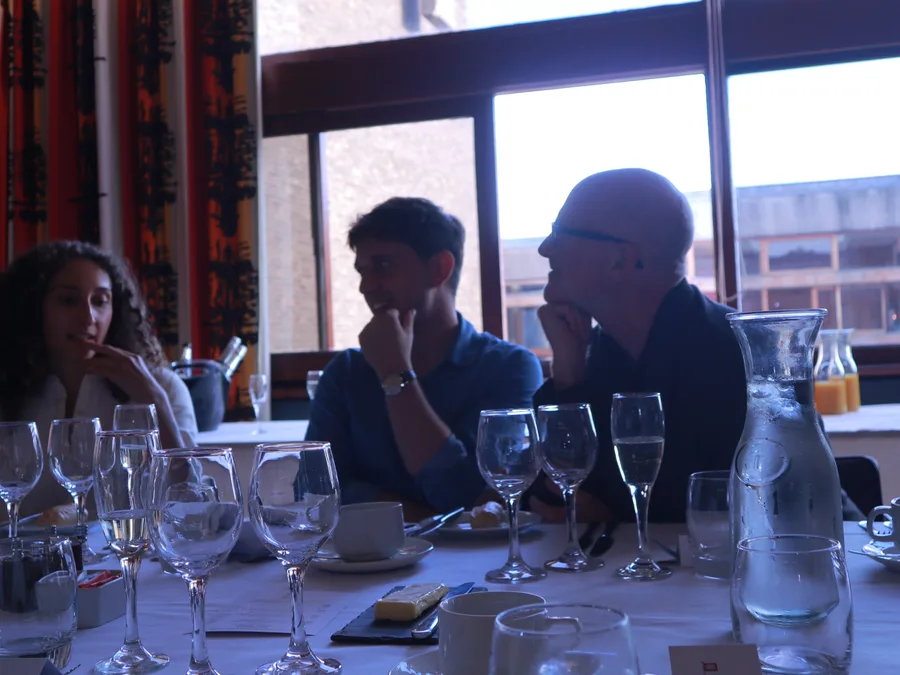
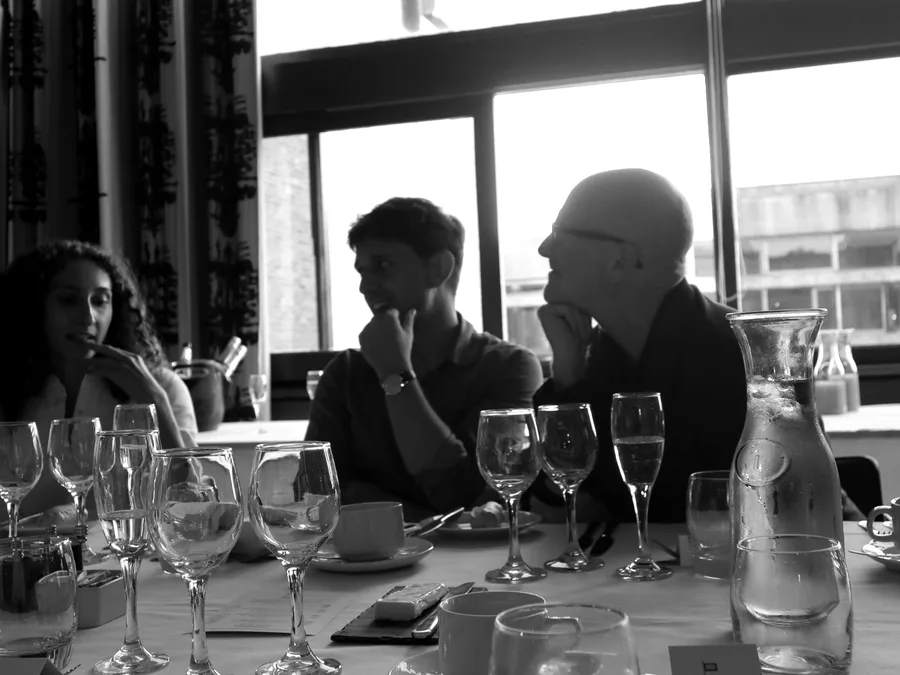
Nuclear page: tighter layout, jump links, cards, black-and-white imagery
- Group photo becomes a 300px banner (200px on phones) instead of a
  full-height image.
- A row of jump links (About, Research focus, Working groups, Research,
  Lately, People) sits under the heading; sections carry matching ids.
- About opens with its first sentence as a lede.
- The three research focus areas are side-by-side cards; the five Fall
  2026 working groups are tiles in a two-column grid.
- All photos on the page are black and white: new greyscale copies of the
  Peters, Cullison and Park headshots in images/people/, and greyscale
  gallery thumbnails (the dinner photo brightened). Pop-ups still show
  the colour originals.
- The two gallery items without a usable photo (The Intercept, Sandia)
  get designed typographic tiles instead of a headshot and a blank tile.
- CSS cache version bumped on every page.

Claude-Session: https://claude.ai/code/session_01RevRCVzg76PT6JeMzYbngU

diff --git a/risk-nuclear.html b/risk-nuclear.html
@@ -6,9 +6,9 @@
 <title>Nuclear — XLab Risk Areas</title>
 <meta name="description" content="XLab's nuclear risk research program: right-of-boom resilience, risk reduction alternatives, and updating the field's foundational inputs.">
 <link href="https://uchicago-brand-fonts.s3.us-east-2.amazonaws.com/UChicagoSansSerif.css" rel="stylesheet">
-<script src="js/image-slot.js?v=20261007a"></script>
-<link rel="stylesheet" href="css/site.css?v=20261007a">
-<script src="js/site.js?v=20261007a" defer></script>
+<script src="js/image-slot.js?v=20261007b"></script>
+<link rel="stylesheet" href="css/site.css?v=20261007b">
+<script src="js/site.js?v=20261007b" defer></script>
 <style>
   body { margin: 0; background: #ffffff; font-family: 'UChicago Sans Serif', Helvetica, Arial, sans-serif; color: #000000; }
   a { color: #800000; text-decoration: none; }
@@ -86,42 +86,39 @@
         <h1 style="font-family:'UChicago Sans Serif',Helvetica,Arial,sans-serif;font-weight:700;letter-spacing:0.08em;text-transform:uppercase;font-size:clamp(36px,5vw,56px);line-height:1.05;margin:0;color:#000000;">Nuclear</h1>
       </div>
     </div>
-    <img src="images/nuclear/nuclear-group-summer-2026.webp" alt="XLab's nuclear risk research group, summer 2026" style="width:100%;height:auto;display:block;margin:40px 0 0;">
+    <img src="images/nuclear/nuclear-group-summer-2026.webp" alt="XLab's nuclear risk research group, summer 2026" class="nuke-hero" style="width:100%;height:300px;object-fit:cover;object-position:center 35%;display:block;margin:36px 0 0;">
   </section>
-  <section style="padding:48px 48px 80px;max-width:820px;margin:0 auto;">
-    <h2 style="font-size:22px;font-weight:700;text-transform:uppercase;letter-spacing:0.12em;margin:0 0 18px;color:#000000;">About</h2>
-    <p style="font-size:16px;line-height:1.75;color:#4D4D4D;margin:0 0 24px;">XLab’s nuclear risk research program is motivated by the conceptual gap between the canonical nuclear policy field and the resilience and post-detonation sub-field. While these areas are often treated as separate and distinct entities, XLab’s program treats these research areas as interdependent, cultivating a robust university community focused on producing actionable policy-relevant research that fills in critical knowledge gaps in our understanding of nuclear preparedness, nuclear winter, and the post-nuclear first strike deterrence environment. Our program functions as a complement to the prevention-based risk reduction frameworks that dominate the field, providing possible solutions to mitigating nuclear risk when preventative frameworks face increased opposition and roadblocks in a tri-polar security environment. XLab’s nuclear risk research focuses on three key areas.</p>
+  <section style="padding:28px 48px 80px;max-width:1180px;margin:0 auto;">
+    <nav class="page-nav" aria-label="On this page">
+      <a href="#about">About</a><a href="#focus">Research focus</a><a href="#groups">Working groups</a><a href="#research">Research</a><a href="#lately">Lately</a><a href="#people">People</a>
+    </nav>
+    <div class="prose">
+    <h2 id="about" style="font-size:22px;font-weight:700;text-transform:uppercase;letter-spacing:0.12em;margin:28px 0 18px;color:#000000;">About</h2>
+    <p class="lede">XLab’s nuclear risk research program is motivated by the conceptual gap between the canonical nuclear policy field and the resilience and post-detonation sub-field.</p>
+    <p style="font-size:16px;line-height:1.75;color:#4D4D4D;margin:0 0 24px;">While these areas are often treated as separate and distinct entities, XLab’s program treats these research areas as interdependent, cultivating a robust university community focused on producing actionable policy-relevant research that fills in critical knowledge gaps in our understanding of nuclear preparedness, nuclear winter, and the post-nuclear first strike deterrence environment. Our program functions as a complement to the prevention-based risk reduction frameworks that dominate the field, providing possible solutions to mitigating nuclear risk when preventative frameworks face increased opposition and roadblocks in a tri-polar security environment. XLab’s nuclear risk research focuses on three key areas.</p>
     <a href="nuclear-top-ten.html" class="nuke-cta">Learn more about the current state of nuclear risk →</a>
 
-    <h2 style="font-size:22px;font-weight:700;text-transform:uppercase;letter-spacing:0.12em;margin:48px 0 18px;color:#000000;">Our Research Focus</h2>
-    <div style="display:flex;flex-direction:column;gap:28px;margin-bottom:8px;">
-      <div>
-        <h3 style="font-size:16.5px;font-weight:700;margin:0 0 8px;color:#800000;">Right-of-Boom and Resilience</h3>
-        <p style="font-size:16px;line-height:1.75;color:#4D4D4D;margin:0;">This research area seeks to broaden the definition of what constitutes risk reduction and what may happen if prevention one day fails. While civil defense and other post-detonation interventions were seen as morally suspect and fatalistic during the Cold War, we argue this area of inquiry should be reframed as risk management for a new nuclear era. The refusal to understand and prepare for possible failure modes increases the probability and severity of a failure event itself. This includes nuclear winter research, institutional resilience, and more broadly, what a post first-strike world looks like.</p>
-      </div>
-      <div>
-        <h3 style="font-size:16.5px;font-weight:700;margin:0 0 8px;color:#800000;">Risk Reduction Alternatives</h3>
-        <p style="font-size:16px;line-height:1.75;color:#4D4D4D;margin:0;">Much of the risk fatigue and funding decreases in the nuclear risk field may be attributed to no return on investment, as despite research, policy initiatives, and calls for reducing nuclear risk, the risk is evolving and continues to rise. Much of the field focuses on prevention but applies Cold War-era approaches for risk reduction to a modern security climate that looks very different, particularly concerning tri-polar competition. We are motivated to understand where current approaches fall flat in modern conditions, and develop alternatives that can work despite a more hostile security environment. This includes revisiting Cold War-era strategies like minimum viable deterrence, and testing them on modern geopolitical conditions.</p>
-      </div>
-      <div>
-        <h3 style="font-size:16.5px;font-weight:700;margin:0 0 8px;color:#800000;">Updating the Field’s Foundational Inputs</h3>
-        <p style="font-size:16px;line-height:1.75;color:#4D4D4D;margin:0;">The security environment has evolved drastically since the Cold War, yet the nuclear field often treats today’s landscape as the same. The nuclear field often confuses the ‘politically irrelevant’ with the ‘scientifically resolved.’ When certain questions fall out of political relevance, the field often stops investigating them; it includes public risk narratives, decision-making, and military planning; hard sciences (e.g., effects of nuclear war and nuclear winter). This research area re-interrogates those inputs under modern conditions to identify where real uncertainty lies and where future work is most needed. Our 2026 report on assumptions and uncertainties in nuclear winter modeling, for example, audits the choices embedded at each stage of the nuclear winter mechanism chain, from fuel loading and firestorm behavior, to soot injection and global circulation. It also shows which of them carry the most weight in the field’s estimates. We also build open-source, interactive tools that make these inputs visible and testable.</p>
-      </div>
     </div>
-
-    <h2 style="font-size:22px;font-weight:700;text-transform:uppercase;letter-spacing:0.12em;margin:48px 0 18px;color:#000000;">Research and Working Groups</h2>
+    <h2 id="focus" style="font-size:22px;font-weight:700;text-transform:uppercase;letter-spacing:0.12em;margin:48px 0 18px;color:#000000;">Our Research Focus</h2>
+    <div class="focus-grid">
+      <div class="focus-card"><h3>Right-of-Boom and Resilience</h3><p>This research area seeks to broaden the definition of what constitutes risk reduction and what may happen if prevention one day fails. While civil defense and other post-detonation interventions were seen as morally suspect and fatalistic during the Cold War, we argue this area of inquiry should be reframed as risk management for a new nuclear era. The refusal to understand and prepare for possible failure modes increases the probability and severity of a failure event itself. This includes nuclear winter research, institutional resilience, and more broadly, what a post first-strike world looks like.</p></div>
+      <div class="focus-card"><h3>Risk Reduction Alternatives</h3><p>Much of the risk fatigue and funding decreases in the nuclear risk field may be attributed to no return on investment, as despite research, policy initiatives, and calls for reducing nuclear risk, the risk is evolving and continues to rise. Much of the field focuses on prevention but applies Cold War-era approaches for risk reduction to a modern security climate that looks very different, particularly concerning tri-polar competition. We are motivated to understand where current approaches fall flat in modern conditions, and develop alternatives that can work despite a more hostile security environment. This includes revisiting Cold War-era strategies like minimum viable deterrence, and testing them on modern geopolitical conditions.</p></div>
+      <div class="focus-card"><h3>Updating the Field’s Foundational Inputs</h3><p>The security environment has evolved drastically since the Cold War, yet the nuclear field often treats today’s landscape as the same. The nuclear field often confuses the ‘politically irrelevant’ with the ‘scientifically resolved.’ When certain questions fall out of political relevance, the field often stops investigating them; it includes public risk narratives, decision-making, and military planning; hard sciences (e.g., effects of nuclear war and nuclear winter). This research area re-interrogates those inputs under modern conditions to identify where real uncertainty lies and where future work is most needed. Our 2026 report on assumptions and uncertainties in nuclear winter modeling, for example, audits the choices embedded at each stage of the nuclear winter mechanism chain, from fuel loading and firestorm behavior, to soot injection and global circulation. It also shows which of them carry the most weight in the field’s estimates. We also build open-source, interactive tools that make these inputs visible and testable.</p></div>
+    </div>
+    <div class="prose">
+    <h2 id="groups" style="font-size:22px;font-weight:700;text-transform:uppercase;letter-spacing:0.12em;margin:48px 0 18px;color:#000000;">Research and Working Groups</h2>
     <p style="font-size:16px;line-height:1.75;color:#4D4D4D;margin:0 0 24px;">XLab’s research working group program allows students to pursue impactful research over quarter-long project cycles advised by XLab staff. We provide otherwise rare opportunities for students to engage with topics in nuclear risk, familiarize themselves with the research process, and develop critical analysis skills over the course of the project. Each working group produces a journal article-length deliverable. Most research groups run on a quarterly basis, while others are longer-term initiatives. Below are our current research groups for Fall 2026:</p>
-    <ul class="wg-list">
-      <li>Post-Detonation Strategy and Deterrence</li>
-      <li>A Framework for Minimum Viable Deterrence</li>
-      <li>Agriculture and Nuclear Winter</li>
-      <li>Nuclear and Converging Risks Threat Modeling</li>
-      <li>Cooperative Trade Policy Under Nuclear Winter</li>
-    </ul>
+    <div class="wg-grid">
+      <div class="wg-tile"><span class="wg-term">Fall 2026</span>Post-Detonation Strategy and Deterrence</div>
+      <div class="wg-tile"><span class="wg-term">Fall 2026</span>A Framework for Minimum Viable Deterrence</div>
+      <div class="wg-tile"><span class="wg-term">Fall 2026</span>Agriculture and Nuclear Winter</div>
+      <div class="wg-tile"><span class="wg-term">Fall 2026</span>Nuclear and Converging Risks Threat Modeling</div>
+      <div class="wg-tile"><span class="wg-term">Fall 2026</span>Cooperative Trade Policy Under Nuclear Winter</div>
+    </div>
     <p style="font-size:15px;line-height:1.7;color:#4D4D4D;margin:0 0 28px;font-style:italic;">If you are interested in joining or leading a working group, please feel free to email <a href="mailto:mberzak@uchicago.edu">Madeline Berzak</a> or <a href="mailto:bennettcullison@uchicago.edu">Bennett Cullison</a> with your resume and core research interests.</p>
-    <img src="images/IMG_1847-1.jpeg" alt="A nuclear risk working group meeting at XLab" style="width:100%;height:340px;object-fit:cover;display:block;filter:grayscale(1) contrast(1.05);margin-bottom:8px;">
+    <img src="images/IMG_1847-1.jpeg" alt="A nuclear risk working group meeting at XLab" style="width:100%;height:300px;object-fit:cover;display:block;filter:grayscale(1) contrast(1.05);margin:8px 0 0;">
 
-    <h2 style="font-size:22px;font-weight:700;text-transform:uppercase;letter-spacing:0.12em;margin:48px 0 18px;color:#000000;">Research and Activities</h2>
+    <h2 id="research" style="font-size:22px;font-weight:700;text-transform:uppercase;letter-spacing:0.12em;margin:48px 0 18px;color:#000000;">Research and Activities</h2>
     <ul class="pub-list">
       <li>Madeline Berzak, Bennett Cullison, Nicolas Park, and Yohana Eshetu, <a href="https://doi.org/10.31223/X5BB7M" target="_blank" rel="noopener">“A Report on Assumptions and Uncertainties in Modeling Nuclear Winter”</a> EarthArXiv (pre-print), 2026.</li>
       <li>Madeline Berzak, Noah Peters, Noah Burdick, and Ada Meltzer, <a href="files/reports/XLab_Shovels_2026.pdf" target="_blank" rel="noopener">“With More Than Shovels: A Study on the Risk-Benefit Paradox of Nuclear Civil Defense”</a> XLab report, Summer 2026. Presented at CCCR 2026 at the University of Cambridge.</li>
@@ -130,10 +127,11 @@
       <li>Carl Parkin, <a href="files/2026/SRF26_FINAL_Parkin_Carl.pdf" target="_blank" rel="noopener">“Saddling the Tiger: Trends and Critical Mechanisms in Nuclear Weapons Acquisition”</a> Summer Research Fellowship, 2026.</li>
     </ul>
 
-    <h2 style="font-size:22px;font-weight:700;text-transform:uppercase;letter-spacing:0.12em;margin:48px 0 18px;color:#000000;">What We’ve Been Up to Lately</h2>
+    </div>
+    <h2 id="lately" style="font-size:22px;font-weight:700;text-transform:uppercase;letter-spacing:0.12em;margin:48px 0 18px;color:#000000;">What We’ve Been Up to Lately</h2>
     <div class="gal-grid">
       <button type="button" class="gal-card" data-modal="gal-park">
-        <span class="gal-media"><img src="images/fellows/2026-patrick-park.webp" alt="Patrick Park" loading="lazy"></span>
+        <span class="gal-media"><img src="images/people/patrick-park.webp" alt="Patrick Park" loading="lazy"></span>
         <span class="gal-title">Patrick Park wins APS Essay Contest</span>
       </button>
       <template id="gal-park"><div class="xl-modal-body"><img src="images/fellows/2026-patrick-park.webp" alt="Patrick Park"><h3>Patrick Park wins APS Essay Contest</h3><p>Patrick Park’s XLab summer research fellowship project, “Priority X: Physicists, Petroleum, Secrets in Making Graphite for Chicago Pile 1,” won the American Physical Society’s 2026 History of Physics Essay Contest. Park is currently a fifth-year PhD student at Princeton University studying mechanical engineering, and will present his essay at APS’s upcoming meeting.</p></div></template>
@@ -143,12 +141,12 @@
       </button>
       <template id="gal-cccr"><div class="xl-modal-body"><img src="images/nuclear/berzak-cambridge.webp" alt="Madeline Berzak speaking at the University of Cambridge"><h3>XLab at CCCR 2026</h3><p>XLab’s director of nuclear risk, Madeline Berzak, spoke on a panel focused on current issues in nuclear risk at the Cambridge Centre for the Study of Existential Risk’s (CSER) bi-annual CCCR conference. Berzak spoke alongside CSER director S.M. Amadae, James Acton, and Mette Eilstrup-Sangiovanni.</p><p><a href="https://www.cser.ac.uk/cccr-2026/" target="_blank" rel="noopener">About CCCR 2026 →</a></p></div></template>
       <button type="button" class="gal-card" data-modal="gal-intercept">
-        <span class="gal-media"><img src="images/people/madeline-berzak-2026.webp" alt="Madeline Berzak" loading="lazy"></span>
+        <span class="gal-media gal-type"><span class="gal-type-inner"><span class="gal-quote">“</span><span class="gal-type-text">How nuclear risk is communicated, and why no one paid attention.</span><span class="gal-type-src">The Intercept</span></span></span>
         <span class="gal-title">Madeline Berzak in The Intercept</span>
       </button>
       <template id="gal-intercept"><div class="xl-modal-body"><img src="images/people/madeline-berzak-2026.webp" alt="Madeline Berzak"><h3>Madeline Berzak in The Intercept</h3><p>Madeline Berzak recently spoke to Sam Biddle at <em>The Intercept</em> about how nuclear risk is communicated, and why no one seemed to pay attention to the recent Middle East Chinese-flagged ship AI incident.</p><p><a href="https://theintercept.com/2026/09/28/ai-military-nuclear-war-doomsday/" target="_blank" rel="noopener">Read the full article →</a></p></div></template>
       <button type="button" class="gal-card" data-modal="gal-sandia">
-        <span class="gal-media"><span class="gal-placeholder" aria-hidden="true"><img src="brand/icon-nuclear.png" alt=""></span></span>
+        <span class="gal-media gal-type gal-type-grey"><span class="gal-type-inner"><span class="gal-type-kicker">Strategic Force Analysis Bootcamp</span><span class="gal-type-text">Sandia National Laboratories<br>Albuquerque, NM</span></span></span>
         <span class="gal-title">XLab at Sandia-Dartmouth Bootcamp</span>
       </button>
       <template id="gal-sandia"><div class="xl-modal-body"><h3>XLab at Sandia-Dartmouth Bootcamp</h3><p>In late July, Madeline Berzak participated in the 6th annual Strategic Force Analysis Bootcamp at Sandia National Labs in Albuquerque, New Mexico. The bootcamp is run by Daryl Press (Dartmouth) and Keir Lieber (Georgetown).</p></div></template>
@@ -159,7 +157,8 @@
       <template id="gal-harari"><div class="xl-modal-body"><img src="images/nuclear/harari-week.webp" alt="Dinner during the CSER summer programme with Yuval Noah Harari"><h3>A Week with Yuval Noah Harari</h3><p>In June 2026, Daniel Holz and Madeline Berzak joined CSER and 25 other academics and professionals for a week-long summer program with Yuval Noah Harari (author of <em>Sapiens</em> and <em>Homo Deus</em>) focused on AI, historical dimensions of power, and societal transformation. It was the perfect week in Cambridge!</p><p><a href="https://www.cser.ac.uk/work/summer-programme-historical-dimensions-of-ai-power-catastrophic-risk/" target="_blank" rel="noopener">Read more about the summer programme →</a></p></div></template>
     </div>
 
-    <h2 style="font-size:22px;font-weight:700;text-transform:uppercase;letter-spacing:0.12em;margin:48px 0 18px;color:#000000;">People</h2>
+    <div class="prose">
+    <h2 id="people" style="font-size:22px;font-weight:700;text-transform:uppercase;letter-spacing:0.12em;margin:48px 0 18px;color:#000000;">People</h2>
     <div style="display:flex;flex-direction:column;gap:26px;margin-bottom:8px;">
       <div style="display:flex;gap:18px;align-items:flex-start;">
         <image-slot id="nuclear-people-berzak" src="images/people/madeline-berzak-2026.webp" style="width: 111px; height: 115px; flex-shrink: 0" shape="circle" placeholder="photo"></image-slot>
@@ -177,14 +176,14 @@
         </div>
       </div>
       <div style="display:flex;gap:18px;align-items:flex-start;">
-        <image-slot id="nuclear-people-peters" src="images/fellows/2026-noah-peters.webp" style="width: 111px; height: 115px; flex-shrink: 0" shape="circle" placeholder="photo"></image-slot>
+        <image-slot id="nuclear-people-peters" src="images/people/noah-peters.webp" style="width: 111px; height: 115px; flex-shrink: 0" shape="circle" placeholder="photo"></image-slot>
         <div>
           <h4 style="font-size:15.5px;font-weight:700;margin:0 0 8px;color:#000000;">Noah Peters</h4>
           <p style="font-size:14.5px;line-height:1.7;color:#4D4D4D;margin:0;">A research assistant for the nuclear risk program at XLab. Noah is an incoming third-year studying mathematics and economics with a concentration in data science. He worked on the Winter 2026 civil defense project, examining the relationship between civil defense and the probability of nuclear war; his broader interests include political and economic resilience, disaster response, post-nuclear war autarky, and export control regimes.</p>
         </div>
       </div>
       <div style="display:flex;gap:18px;align-items:flex-start;">
-        <image-slot id="nuclear-people-cullison" src="images/fellows/2026-bennett-cullison.webp" style="width: 111px; height: 115px; flex-shrink: 0" shape="circle" placeholder="photo"></image-slot>
+        <image-slot id="nuclear-people-cullison" src="images/people/bennett-cullison.webp" style="width: 111px; height: 115px; flex-shrink: 0" shape="circle" placeholder="photo"></image-slot>
         <div>
           <h4 style="font-size:15.5px;font-weight:700;margin:0 0 8px;color:#000000;">Bennett Cullison</h4>
           <p style="font-size:14.5px;line-height:1.7;color:#4D4D4D;margin:0;">A researcher and lead on the nuclear winter geoengineering project. Bennett is an incoming fourth-year studying geophysical sciences, with research interests in climate and atmospheric modeling, nuclear winter, and GIS applications. He previously worked on XLab’s nuclear winter research, modeling combustible material by land type to produce more accurate soot estimates.</p>
@@ -217,6 +216,7 @@
       <h3 style="font-size:19px;font-weight:700;margin:0 0 12px;color:#000000;">Want to work on this?</h3>
       <p style="font-size:14.5px;line-height:1.6;color:#4D4D4D;margin:0 0 22px;">Our Summer Research Fellowship trains junior researchers in nuclear security and policy.</p>
       <a href="fellowship.html" style="font-size:13px;letter-spacing:0.06em;color:#ffffff;background:#800000;padding:14px 30px;">EXPLORE THE FELLOWSHIP →</a>
+    </div>
     </div>
   </section>
   <dialog class="xl-modal" aria-label="Details">

diff --git a/css/site.css b/css/site.css
@@ -111,6 +111,29 @@ nav { box-shadow: 0 2px 8px rgba(0, 0, 0, 0.08); }
 @media (prefers-reduced-motion: reduce) { .news-track { scroll-behavior: auto; } }
 
 /* ----- Nuclear page: lists, gallery, modal ----- */
+.prose { max-width: 820px; }
+.lede { font-size: 21px; line-height: 1.5; color: #000000; margin: 0 0 18px; }
+.page-nav { display: flex; flex-wrap: wrap; gap: 8px; margin: 0 0 8px; }
+.page-nav a { font-family: 'UChicago Sans Serif', Helvetica, Arial, sans-serif; font-size: 12.5px; letter-spacing: 0.06em; text-transform: uppercase; font-weight: 700; color: #4D4D4D; border: 1px solid #D9D9D9; padding: 8px 14px; border-radius: 20px; text-decoration: none; }
+.page-nav a:hover, .page-nav a:focus-visible { color: #ffffff; background: #800000; border-color: #800000; text-decoration: none; }
+.focus-grid { display: grid; grid-template-columns: repeat(3, 1fr); gap: 20px; }
+.focus-card { background: #ffffff; border: 1px solid #D9D9D9; border-top: 4px solid #800000; padding: 24px; }
+.focus-card h3 { font-size: 17px; font-weight: 700; margin: 0 0 10px; color: #000000; line-height: 1.3; }
+.focus-card p { font-size: 14.5px; line-height: 1.65; color: #4D4D4D; margin: 0; }
+.wg-grid { display: grid; grid-template-columns: repeat(2, 1fr); gap: 14px; margin: 0 0 20px; }
+.wg-tile { background: #D9D9D9; padding: 18px 20px; font-size: 16px; font-weight: 700; color: #000000; line-height: 1.35; }
+.wg-term { display: block; font-size: 11px; letter-spacing: 0.1em; text-transform: uppercase; color: #800000; font-weight: 700; margin-bottom: 6px; }
+.gal-media.gal-type { display: flex; align-items: center; justify-content: center; background: #800000; color: #ffffff; padding: 24px; box-sizing: border-box; transition: transform 0.3s ease; }
+.gal-media.gal-type-grey { background: #404040; }
+.gal-card:hover .gal-type, .gal-card:focus-visible .gal-type { transform: scale(1.03); }
+.gal-type-inner { display: block; text-align: left; width: 100%; }
+.gal-quote { display: block; font-family: 'UChicago Serif', Georgia, serif; font-size: 64px; line-height: 0.6; margin-bottom: 14px; opacity: 0.7; }
+.gal-type-text { display: block; font-size: 18px; line-height: 1.35; font-weight: 700; }
+.gal-type-src { display: block; font-size: 12px; letter-spacing: 0.1em; text-transform: uppercase; margin-top: 14px; opacity: 0.85; }
+.gal-type-kicker { display: block; font-size: 11px; letter-spacing: 0.12em; text-transform: uppercase; margin-bottom: 10px; opacity: 0.85; }
+@media (max-width: 900px) { .focus-grid { grid-template-columns: 1fr; } }
+@media (max-width: 640px) { .wg-grid { grid-template-columns: 1fr; } .nuke-hero { height: 200px !important; } .lede { font-size: 18px; } }
+
 .nuke-cta { display: inline-block; font-size: 13px; letter-spacing: 0.06em; text-transform: uppercase; color: #ffffff; background: #800000; padding: 14px 26px; margin: 4px 0 8px; }
 .nuke-cta:hover, .nuke-cta:focus-visible { text-decoration: underline; }
 .wg-list { list-style: none; padding: 0; margin: 0 0 20px; border-top: 1px solid #D9D9D9; }

diff --git a/index.html b/index.html
@@ -6,9 +6,9 @@
 <title>XLab — UChicago Existential Risk Laboratory</title>
 <meta name="description" content="XLab is the University of Chicago's Existential Risk Laboratory, an interdisciplinary research organization studying and mitigating catastrophic risks from AI, nuclear weapons, biosecurity, and climate change.">
 <link href="https://uchicago-brand-fonts.s3.us-east-2.amazonaws.com/UChicagoSansSerif.css" rel="stylesheet">
-<script src="js/image-slot.js?v=20261007a"></script>
-<link rel="stylesheet" href="css/site.css?v=20261007a">
-<script src="js/site.js?v=20261007a" defer></script>
+<script src="js/image-slot.js?v=20261007b"></script>
+<link rel="stylesheet" href="css/site.css?v=20261007b">
+<script src="js/site.js?v=20261007b" defer></script>
 <style>
   body { margin: 0; background: #ffffff; font-family: 'UChicago Sans Serif', Helvetica, Arial, sans-serif; color: #000000; }
   a { color: #800000; text-decoration: none; }

diff --git a/fellowship.html b/fellowship.html
@@ -7,9 +7,9 @@
 <meta name="description" content="XLab's 10-week Summer Research Fellowship for undergraduates and early-career researchers in AI safety and nuclear security.">
 <link href="https://uchicago-brand-fonts.s3.us-east-2.amazonaws.com/UChicagoSansSerif.css" rel="stylesheet">
 <link href="https://uchicago-brand-fonts.s3.us-east-2.amazonaws.com/UChicagoSerif.css" rel="stylesheet">
-<script src="js/image-slot.js?v=20261007a"></script>
-<link rel="stylesheet" href="css/site.css?v=20261007a">
-<script src="js/site.js?v=20261007a" defer></script>
+<script src="js/image-slot.js?v=20261007b"></script>
+<link rel="stylesheet" href="css/site.css?v=20261007b">
+<script src="js/site.js?v=20261007b" defer></script>
 <style>
   body { margin: 0; background: #ffffff; font-family: 'UChicago Sans Serif', Helvetica, Arial, sans-serif; color: #000000; }
   a { color: #800000; text-decoration: none; }

diff --git a/risk-ai.html b/risk-ai.html
@@ -6,9 +6,9 @@
 <title>Artificial Intelligence — XLab Risk Areas</title>
 <meta name="description" content="XLab's research and programs on existential risk from artificial intelligence, including Second Look and the AI Security Guide.">
 <link href="https://uchicago-brand-fonts.s3.us-east-2.amazonaws.com/UChicagoSansSerif.css" rel="stylesheet">
-<script src="js/image-slot.js?v=20261007a"></script>
-<link rel="stylesheet" href="css/site.css?v=20261007a">
-<script src="js/site.js?v=20261007a" defer></script>
+<script src="js/image-slot.js?v=20261007b"></script>
+<link rel="stylesheet" href="css/site.css?v=20261007b">
+<script src="js/site.js?v=20261007b" defer></script>
 <style>
   body { margin: 0; background: #ffffff; font-family: 'UChicago Sans Serif', Helvetica, Arial, sans-serif; color: #000000; }
   a { color: #800000; text-decoration: none; }

diff --git a/nuclear-top-ten.html b/nuclear-top-ten.html
@@ -6,9 +6,9 @@
 <title>Ten Things to Know About Nuclear Weapons — XLab</title>
 <meta name="description" content="Ten things to know about the current state of nuclear risk, from XLab at the University of Chicago.">
 <link href="https://uchicago-brand-fonts.s3.us-east-2.amazonaws.com/UChicagoSansSerif.css" rel="stylesheet">
-<script src="js/image-slot.js?v=20261007a"></script>
-<link rel="stylesheet" href="css/site.css?v=20261007a">
-<script src="js/site.js?v=20261007a" defer></script>
+<script src="js/image-slot.js?v=20261007b"></script>
+<link rel="stylesheet" href="css/site.css?v=20261007b">
+<script src="js/site.js?v=20261007b" defer></script>
 <style>
   body { margin: 0; background: #ffffff; font-family: 'UChicago Sans Serif', Helvetica, Arial, sans-serif; color: #000000; }
   a { color: #800000; text-decoration: none; }

diff --git a/about.html b/about.html
@@ -6,9 +6,9 @@
 <title>About — XLab</title>
 <meta name="description" content="Learn about XLab, the University of Chicago Existential Risk Laboratory: our story, team, faculty advisory committee, and funders.">
 <link href="https://uchicago-brand-fonts.s3.us-east-2.amazonaws.com/UChicagoSansSerif.css" rel="stylesheet">
-<script src="js/image-slot.js?v=20261007a"></script>
-<link rel="stylesheet" href="css/site.css?v=20261007a">
-<script src="js/site.js?v=20261007a" defer></script>
+<script src="js/image-slot.js?v=20261007b"></script>
+<link rel="stylesheet" href="css/site.css?v=20261007b">
+<script src="js/site.js?v=20261007b" defer></script>
 <style>
   body { margin: 0; background: #ffffff; font-family: 'UChicago Sans Serif', Helvetica, Arial, sans-serif; color: #000000; }
   a { color: #800000; text-decoration: none; }

diff --git a/fellows-outputs.html b/fellows-outputs.html
@@ -6,9 +6,9 @@
 <title>Past Fellows' Work — XLab</title>
 <meta name="description" content="Browse research papers and projects produced by XLab Summer Research Fellows since 2022, including the 2026 cohort.">
 <link href="https://uchicago-brand-fonts.s3.us-east-2.amazonaws.com/UChicagoSansSerif.css" rel="stylesheet">
-<script src="js/image-slot.js?v=20261007a"></script>
-<link rel="stylesheet" href="css/site.css?v=20261007a">
-<script src="js/site.js?v=20261007a" defer></script>
+<script src="js/image-slot.js?v=20261007b"></script>
+<link rel="stylesheet" href="css/site.css?v=20261007b">
+<script src="js/site.js?v=20261007b" defer></script>
 <style>
   body { margin: 0; background: #ffffff; font-family: 'UChicago Sans Serif', Helvetica, Arial, sans-serif; color: #000000; }
   a { color: #800000; text-decoration: none; }

diff --git a/risk-areas.html b/risk-areas.html
@@ -6,9 +6,9 @@
 <title>Risk Areas — XLab</title>
 <meta name="description" content="XLab's four fronts of catastrophic risk: artificial intelligence, nuclear weapons, biosecurity, and climate.">
 <link href="https://uchicago-brand-fonts.s3.us-east-2.amazonaws.com/UChicagoSansSerif.css" rel="stylesheet">
-<script src="js/image-slot.js?v=20261007a"></script>
-<link rel="stylesheet" href="css/site.css?v=20261007a">
-<script src="js/site.js?v=20261007a" defer></script>
+<script src="js/image-slot.js?v=20261007b"></script>
+<link rel="stylesheet" href="css/site.css?v=20261007b">
+<script src="js/site.js?v=20261007b" defer></script>
 <style>
   body { margin: 0; background: #ffffff; font-family: 'UChicago Sans Serif', Helvetica, Arial, sans-serif; color: #000000; }
   a { color: #800000; text-decoration: none; }
